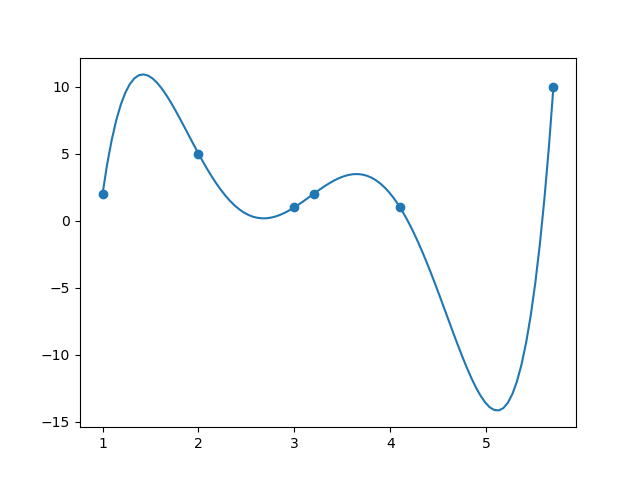
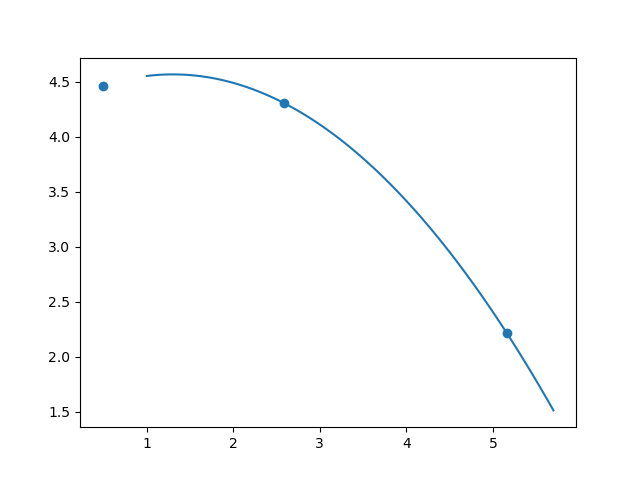
.

diff --git a/lagrange/lagrangeV4.PY b/lagrange/lagrangeV4.PY
@@ -1,0 +1,63 @@
+# Polinômio interpolador
+
+"""
+- Um polinômio p(x), de grau n, é o polinômio interpolador
+de uma lista contendo n+1 de pontos
+pontos = [(x0,y0), (x1,y1), (x2,y2), ..., (xn, yn)]
+se p(xk) = yk, para todo k=0,1,2,...,n.
+- Se os pontos da lista acima pertencem ao gráfico de uma
+função f, i.e., se yk=f(xk), para todo k=0,1,2,...,n, dizemos
+que o polinômio p(x) interpola a função f no pontos da lista.
+- Útil para estimar valores fora da lista dada de pontos
+- Útil para aproximar funções (nem sempre)
+"""
+
+# Ex1
+# lista = [(1,2)]
+# # p(1)=2, p(x)==2, tem grau zero.
+# def p(x):
+#     return 2
+
+lista = [(2, -1), (5, 4)]
+# p(2) = -1 e p(5) = 4, tem grau 1
+
+# a, b = 1, 7
+# # f(a) = 0 e f(b) = 1
+# def f(x):
+#     return (x - a) / (b - a)
+
+# L0 e L1, uma para cada ponto
+
+# L0(2) = 1 e L0(5) = 0
+# def L0(x):
+#     return (x - 5) / (2 - 5)
+
+# # L1(5) = 1 e L1(2) = 0
+# def L1(x):
+#     return (x - 2) / (5 - 2)
+
+# def p(x):
+#     return -1 * L0(x) + 4 * L1(x)
+
+lista = [(2,-2), (3, 4), (5, -1)]
+# L0(2)=1, L0(3)=0, L0(5)=0
+def L0(x):
+    return ((x - 3) * (x - 5)) / ((2 - 3) * (2 - 5))
+
+# L1(2)=0, L1(3)=1, L1(5)=0
+def L1(x):
+    return ((x - 2)*(x - 5)) / ((3 - 2)*(3 - 5))
+
+# L2(2)=0, L2(3)=0, L2(5)=1
+def L2(x):
+    return ((x - 2)*(x - 3)) / ((5 - 2)*(5 - 3))
+
+def p(x):
+    return -2 * L0(x) + 4 * L1(x) - 1 * L2(x)
+
+print(p(2), p(3), p(5))
+
+
+
+lista = [(1.502, 4.992), (1.904, 4.824), (4.476, 2.36)]
+

diff --git a/lagrange/lagrangeV3.py b/lagrange/lagrangeV3.py
@@ -1,0 +1,55 @@
+from math import *
+pontos = [(1, 2), (2, 5), (3, -1), (4, 2)]
+
+def prod(lista):
+    p = 1
+    for i in lista:
+        p *= i
+    return p
+
+def lagrange(pontos, x):
+    # retorna o valor do polinômio de Lagrange que interpola
+    # a lista 'pontos' calculado no ponto x
+    xs, ys = zip(*pontos)
+    soma = 0
+    for k, y in enumerate(ys):
+        xk = xs[k]
+        Lk_numerador = prod([x - xi for i, xi in enumerate(xs) if i != k])
+        Lk_denominador = prod([xk - xi for i, xi in enumerate(xs) if i != k])
+        soma += y * (Lk_numerador / Lk_denominador)
+    return soma
+
+def p(x):
+    return lagrange(pontos, x)
+
+import matplotlib.pyplot as plt
+
+# função para interpolar
+def f(x):
+    return (x*x*x)  * exp(-x) * sqrt(cos(x**2)+3)
+
+# usado para desenhar o gráfico da função
+# pontos no intervalo [-1, 1]
+t = [-1 + i * (2 / 999) for i in range(1000)]
+ft = [f(i) for i in t]
+plt.plot(t, ft, label="gráfico de $f(x)=\\frac{1}{1 + 25x^2}$")
+# plt.show()
+
+# polinômio interpolador
+# lista de pontos no intervalo [-1, 1]
+n = 20
+xs = [-1 + i * (2 / (n - 1)) for i in range(n)]
+ys = [f(i) for i in xs]
+pontos = [(x, f(x)) for x in xs]
+
+# plotar os 'pontos'
+plt.scatter(xs, ys)
+
+# plotar o gráfico de p(x)
+pt = [p(i) for i in t]
+plt.plot(t, pt, label="polinômio interpolador")
+plt.legend()
+plt.title(f"{n} pontos")
+# Fenômeno de Runge
+# plt.savefig(f'{n}pontos', dpi=300)
+plt.show()

diff --git a/divided_differences/divided_differences.py b/divided_differences/divided_differences.py
@@ -1,11 +1,11 @@
 #método das diferenças divididas (de Newton)
 
-x = [1.085, 1.301, 1.568, 1.897, 2.305, 2.626, 2.851, 2.95, 3.452, 3.583, 4.019, 4.219, 4.388, 4.819, 5.047, 5.168, 5.513, 5.965, 6.223, 6.424, 6.716, 6.879, 7.222, 7.513, 7.662, 8.028, 8.286, 8.452, 8.946]
-y = [1.6333089670679755,1.5207986331001262,1.5353613317591557,1.7757807284832174,2.4065876970492472,3.098134027717733,3.552006950159738,3.703451790039654,3.7151042043952707,3.5410102536036927,2.8956063358744286,2.6910566150981667,2.5858015537365886,2.583953697967796,2.7326721344212785,2.856108348747042,3.3810997947518087,4.250754144932567,4.536717231675665,4.525301836408946,4.18427623942221,3.9123906515193756,3.39475196144384,3.1349594104558056,3.0733502293146286,3.1133672424194776,3.306187102317139,3.507372157383368,4.389673330229931]
+x = [1.645, 2.88, 3.603, 5.954]
+y = [2.647959002231413,3.597017331779781,3.2346337773880025,4.039633225212058]
 
 def divided_differences(x, y):
     Y = [item for item in y] # vai mudando em cada iteração
-    coeffs = [y[0], 0, 0, 0, 0, 0, 0, 0, 0, 0, 0 ,0 ,0 ,0 ,0 ,0 ,0 ,0 ,0, 0, 0, 0, 0, 0, 0, 0, 0, 0, 0]
+    coeffs = [y[0], 0, 0, 0]
     n = len(y)
     for i in range(n - 1):
         for j in range(n -1 -i):

diff --git a/richardson.py b/richardson.py
@@ -1,0 +1,35 @@
+import math
+
+def richardson(col1):
+    col1 = [item for item in col1]
+    n = len(col1)
+    for j in range(n -1):
+        temp_col = [0] * (n -1-j)
+        for i in range(n-1-j):
+            power = j+1
+            temp_col[i] = (2** power *col1[i+1] - col1[i])/(2 ** power -1)
+        col1[:n - 1 -j] = temp_col
+        print(temp_col)
+    return col1[0]
+
+
+def f(x):
+    return math.cos(x**x)
+
+x0 = 1.02551
+h = 0.42247
+
+def F1(f, x0, h):
+    return (f(x0 + h) - f(x0))/h
+
+def F2(f, x0, h):
+    return(f(x0) - f(x0-h))/h
+
+def g(x):
+    return math.cos(2**x)
+
+x0 = 1
+h = 0.437
+col1 = [F1(g, x0, h / 2 ** i) for i in range(10)]
+print(col1)
+r = richardson(col1)

diff --git a/spline_cubico/spline.py b/spline_cubico/spline.py
@@ -33,8 +33,8 @@ def spline(x, y):
     return s
 
 #(1,1), (2,4), (4,2), (5,3)
-x = [-6.997, -4.642, -3.236, -2.747, -0.222, 1.774, 3.809, 4.001, 7.222, 8.158, 10.079, 11.386, 12.652]
-y = [1.713, 4.279, 3.745, 3.364, 3.778, 4.875, 2.897, 2.709, 3.068, 2.736, 0.005, -1.246, -1.25]
+x = [1.645, 2.88, 3.603, 5.954]
+y = [2.9926662214570587,2.034270600027393,2.104575480697977,3.9463060250722504]
 eqs = spline(x, y)
 print(eqs)
 

diff --git a/FindingPoints.py b/FindingPoints.py
@@ -1,9 +1,10 @@
 from math import *
 
 def f(x):
-    return exp(-x**2) + cos(x) + 3
+    return 4 + sin(x) - ((x**2) / 30)
 
-x =  [0.193, 0.627, 1.402, 1.918, 2.355, 3.25, 3.635, 4.197, 4.915, 5.723, 6.072, 6.571]
+
+x =  [0.488, 2.587, 5.163]
 
 vetY = "["
 for i in x:

diff --git a/lagrange/langrangeV2.py b/lagrange/langrangeV2.py
@@ -15,8 +15,8 @@ def lagrange (x, y):
 
 
 if __name__ == '__main__':
-    x = [1, 2, 3, 3.2, 4.1, 5.7]
-    y = [2, 5, 1, 2, 1, 10]
+    x = [0.488, 2.587, 5.163]
+    y = [4.460922149045586,4.303511419268025,2.2112665381928047]
 
     eq = lagrange(x, y)
     
